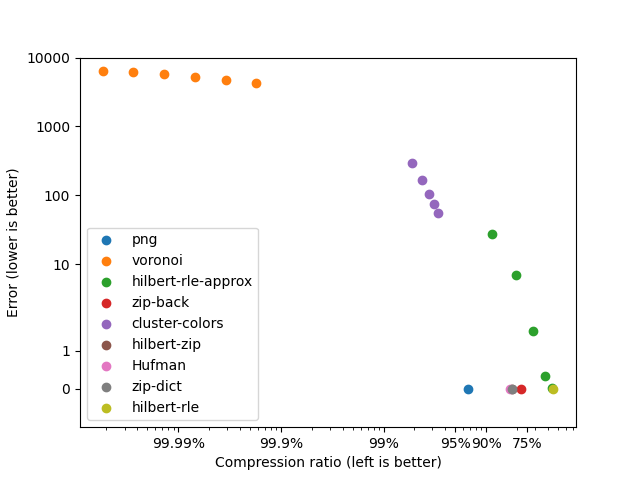
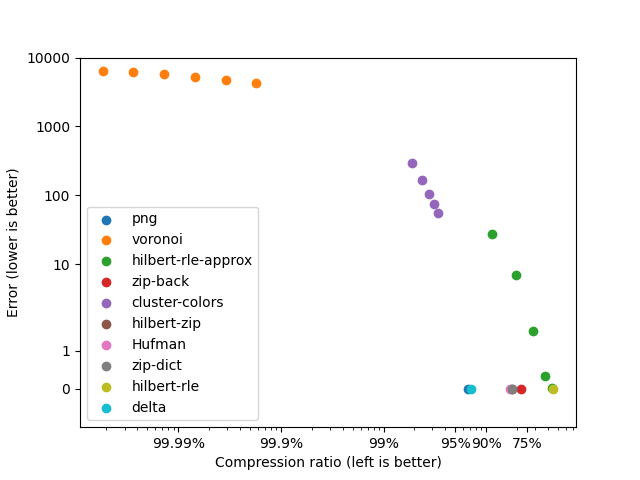
Add delta to the README and diagrams

Changed region(s): [[0.1562, 0.4375, 0.4062, 0.875], [0.7188, 0.7812, 0.75, 0.8438], [0.1562, 0.8438, 0.1875, 0.875]]

diff --git a/README.md b/README.md
@@ -25,6 +25,7 @@ Legend:
 * `zip-back`: Zip-inspired lookback compression
 * `hilbert-rle`: Run-Length Encoding on a Hilbert curve traversal
 * `hilbert-zip`: `zip-dict` on a Hilbert curve traversal
+* `delta`: Hufman encode neighbouring pixel difference
 
 #### Lossy codecs
 
@@ -45,6 +46,7 @@ Legend:
 * `hilbert-rle-approx`: Approximate Run-Length Encoding on a Hilbert curve traversal
   * running average with an allowed color distance of 1 (bottom right), 2, 4, 8, 16 (top left)
 * `hilbert-zip`: `zip-dict` on a Hilbert curve traversal
+* `delta`: Hufman encode neighbouring pixel difference
 
 ### ASCII art codec descriptions
 
@@ -85,8 +87,8 @@ output:                      |                  |           |
 #### hilbert codecs
 
 ```
-   Hilbert
-  traversal
+   Hilbert             input
+  traversal            image
                     +----------+
  5--6  9--a         |6  8  7  7|
  |  |  |  |         |          |
@@ -139,4 +141,51 @@ output:                      |                  |           |
                   |
                   v
      0x0003 0x0003 0x0005 0x0007 0x0006 ...
+```
+
+#### delta
+
+```
+           Hilbert             input
+          traversal            image
+                            +----------+
+         5--6  9--a         |6  8  7  7|
+         |  |  |  |         |          |
+         4  7--8  b         |6  8  7  8|
+         |        |         |          |
+         3--2  d--c         |7  5  9  9|
+            |  |            |          |
+         0--1  e--f         |3  3  8  9|
+                            +----------+
+             |                   |
+             +---------+---------+
+                       |
+                       v
+  0  1  2  3  4  5  6  7  8  9  a  b  c  d  e  f
++------------------------------------------------+
+| 3  3  5  7  6  6  8  8  7  7  7  8  9  9  8  9 |
++------------------------------------------------+
+                       |
+            difference with previous
+                       |
+                       v
++------------------------------------------------+
+| 3  0  2  2 -1  0  2  0 -1  0  0  1  1  0 -1  1 |
++------------------------------------------------+
+                       |
+                 Hufman encoding  -----------v
+                       |                     *
+                       |                 0 /   \ 1
+                       |                 /       \
+                       |               0           *
+                       |               0       0 /   \ 1
+                       |                       /       \
+                       |                     *           *
+                       |                 0 /  \ 1     0 /  \ 1
+                       |                 /     \       /     \
+                       |              -1        1     2        3
+                       |              100      101   110      111
+                       |
+                       v
+output: 111 0 110 110 100 0 110 0 100 0 0 101 101 0 100 101
 ```
